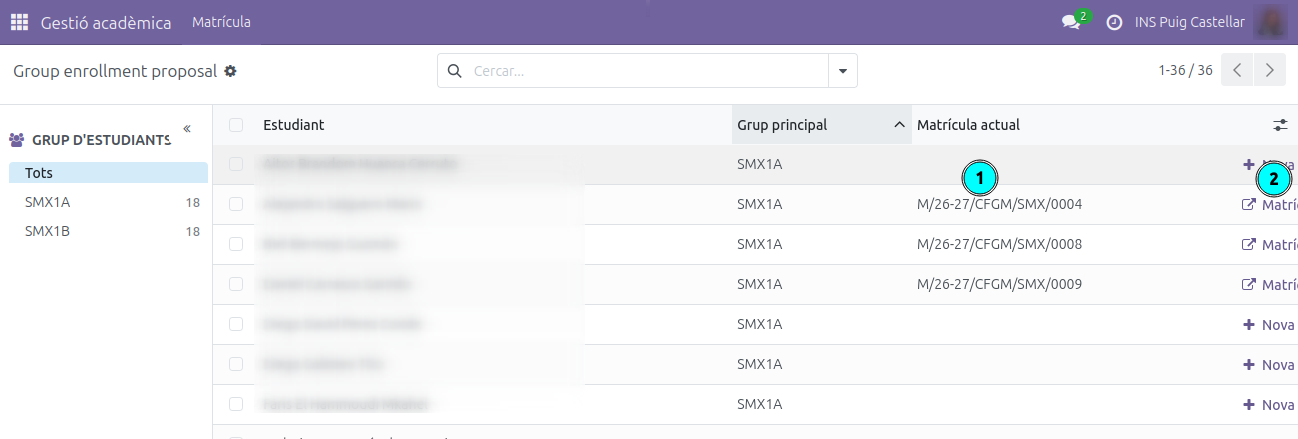
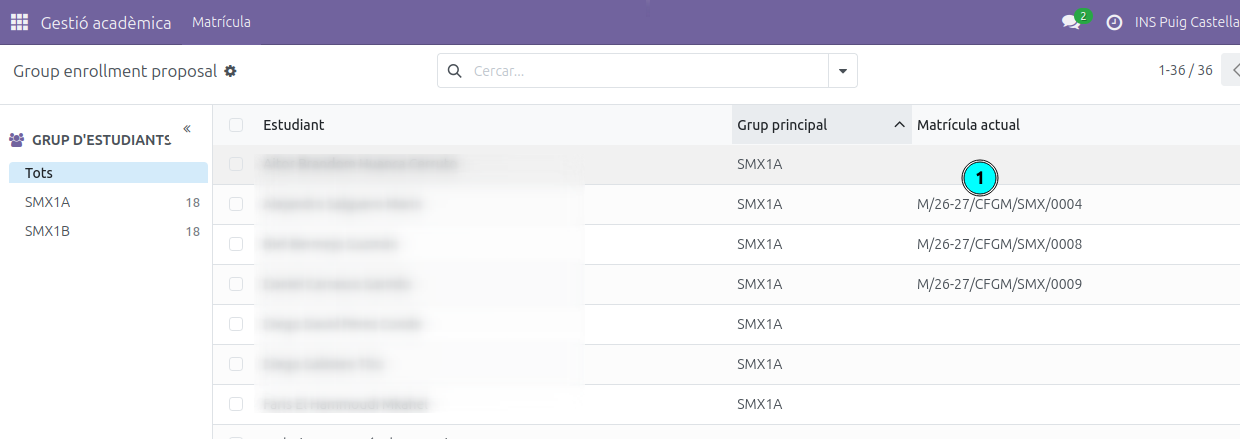
Fix images, docs and side search

diff --git a/docs/es/tutors/propostes-matricula.md b/docs/es/tutors/propostes-matricula.md
@@ -53,7 +53,7 @@ Se abrirá un diálogo con los alumnos seleccionados.
 
 ## Consultar las pre-matrículas creadas
 
-Una vez generadas, puedes ver el listado de pre-matrículas desde la misma vista **Gestión académica → Matrícula → Propuestas de matrícula**. Los alumnos que ya tienen una pre-matrícula creada mostrarán su número en la columna **Matrícula actual** **(1)**. Haz clic en el botón de la derecha **(2)** para abrir el detalle de cada pre-matrícula.
+Una vez generadas, puedes ver el listado de pre-matrículas desde la misma vista **Gestión académica → Matrícula → Propuestas de matrícula**. Los alumnos que ya tienen una pre-matrícula creada mostrarán su número en la columna **Matrícula** **(1)**. Haz clic en la fila para abrir el detalle de cada pre-matrícula.
 
 ![Listado de alumnos con las pre-matrículas creadas](assets/propostes-03-llista-alumnes-pre-matricules-creades.png)
 

diff --git a/docs/ca/tutors/propostes-matricula.md b/docs/ca/tutors/propostes-matricula.md
@@ -53,7 +53,7 @@ S'obrirà un diàleg amb els alumnes seleccionats.
 
 ## Consultar les pre-matrícules creades
 
-Un cop generades, pots veure el llistat de pre-matrícules des de la mateixa vista **Gestió acadèmica → Matrícula → Propostes de matrícula**. Els alumnes que ja tenen una pre-matrícula creada mostraran el seu número a la columna **Matrícula actual** **(1)**. Fes clic al botó de la dreta **(2)** per obrir el detall de cada pre-matrícula.
+Un cop generades, pots veure el llistat de pre-matrícules des de la mateixa vista **Gestió acadèmica → Matrícula → Propostes de matrícula**. Els alumnes que ja tenen una pre-matrícula creada mostraran el seu número a la columna **Matrícula** **(1)**. Fes clic a la fila per obrir el detall de cada pre-matrícula.
 
 ![Llistat d'alumnes amb les pre-matrícules creades](assets/propostes-03-llista-alumnes-pre-matricules-creades.png)
 

diff --git a/docs/en/tutors/propostes-matricula.md b/docs/en/tutors/propostes-matricula.md
@@ -53,7 +53,7 @@ A dialog will open with the selected students.
 
 ## View Generated Pre-enrollments
 
-Once generated, you can view the list of pre-enrollments from the same view **Academic Management → Enrollment → Enrollment Proposals**. Students who already have a pre-enrollment created will show their enrollment number in the **Current Enrollment** column **(1)**. Click the button on the right **(2)** to open the details of each pre-enrollment.
+Once generated, you can view the list of pre-enrollments from the same view **Academic Management → Enrollment → Enrollment Proposals**. Students who already have a pre-enrollment created will show their enrollment number in the **Enrollment** column **(1)**. Click on the row to open the details of each pre-enrollment.
 
 ![List of students with generated pre-enrollments](assets/propostes-03-llista-alumnes-pre-matricules-creades.png)
 
